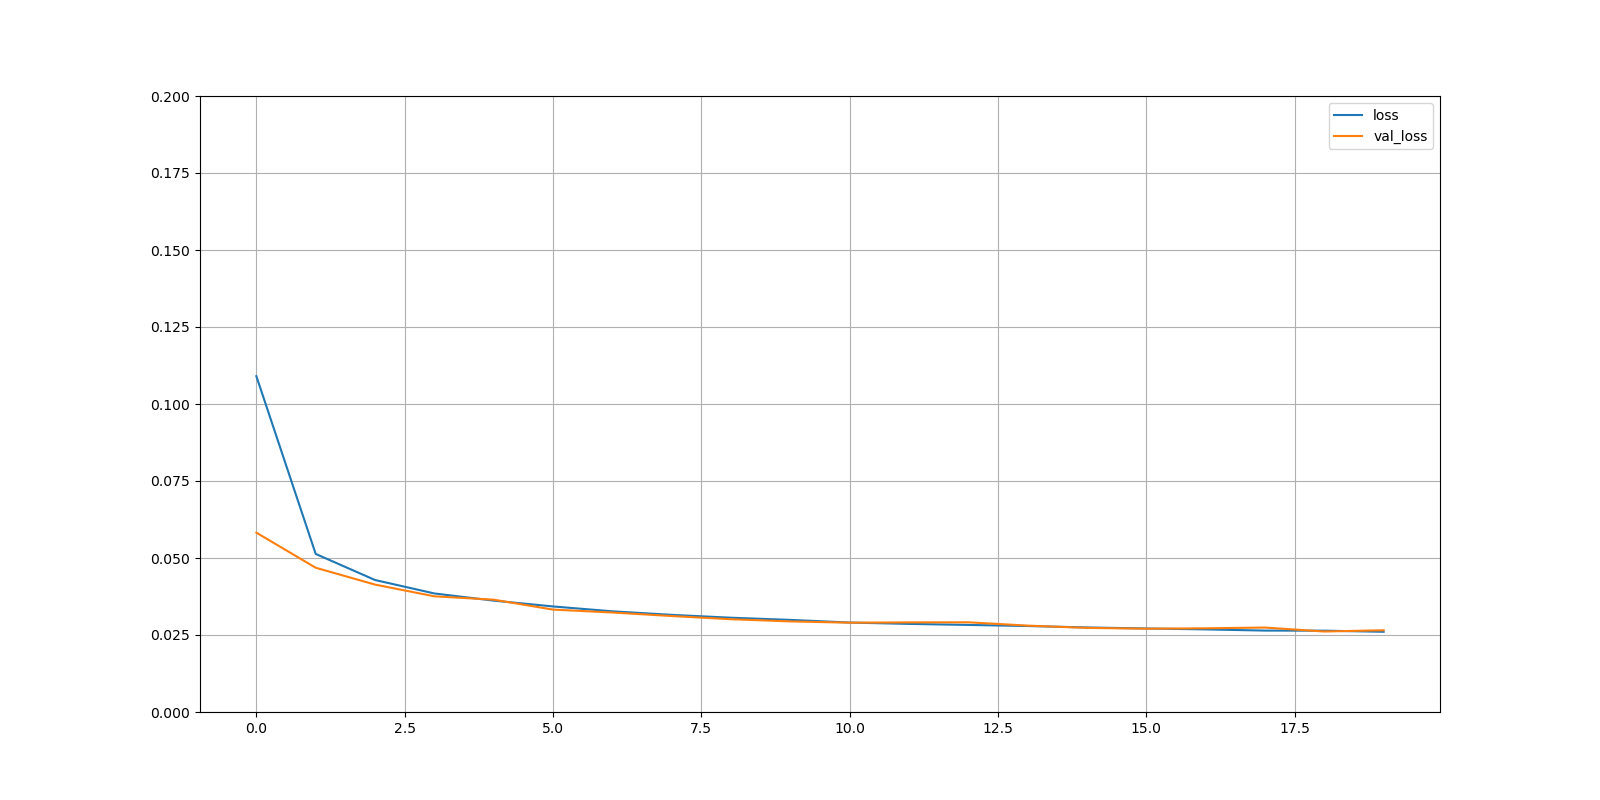
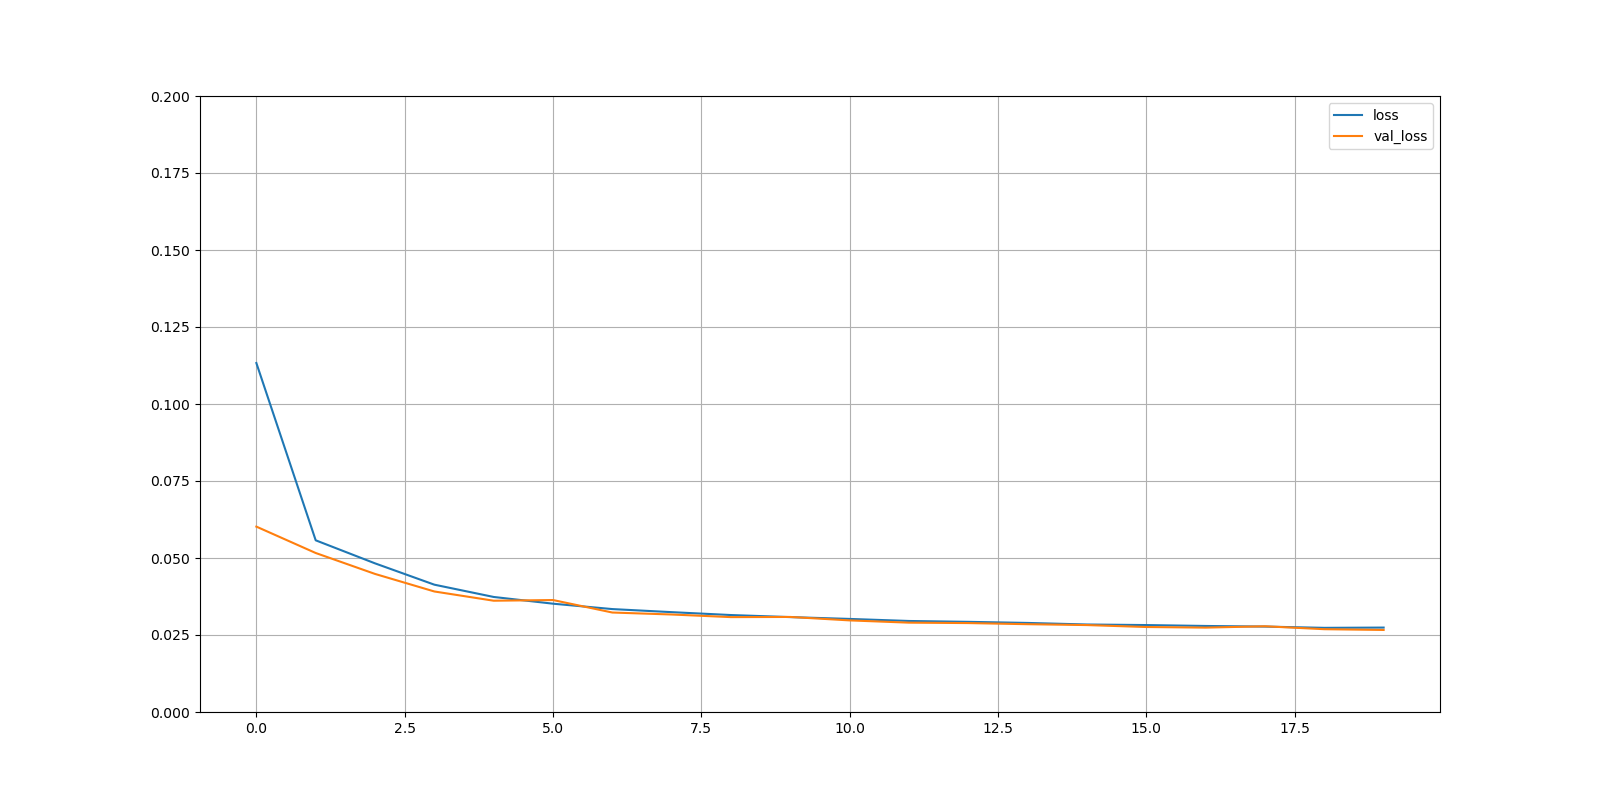
A

diff --git a/RNN.py b/RNN.py
@@ -83,8 +83,10 @@ print(y_valid.shape, y_train.shape)
 input = tf.keras.layers.Input(shape = (steps,1))
 x = tf.keras.layers.SimpleRNN(20, return_sequences =True)(input)
 x = keras.layers.RNN(LNSimpleRNNCell(20), return_sequences=True)(x)
-y = keras.layers.TimeDistributed(keras.layers.Dense(10))(x)
-
+for rate in (1, 2, 4, 8) * 2:
+    keras.layers.Conv1D(filters=20, kernel_size=2,padding="causal",activation="relu", dilation_rate=rate)(x)
+    
+y= keras.layers.Conv1D(filters=10, kernel_size=1)(x)
 
 model = tf.keras.Model(inputs = [input], outputs = [y])
 print(model.summary())
